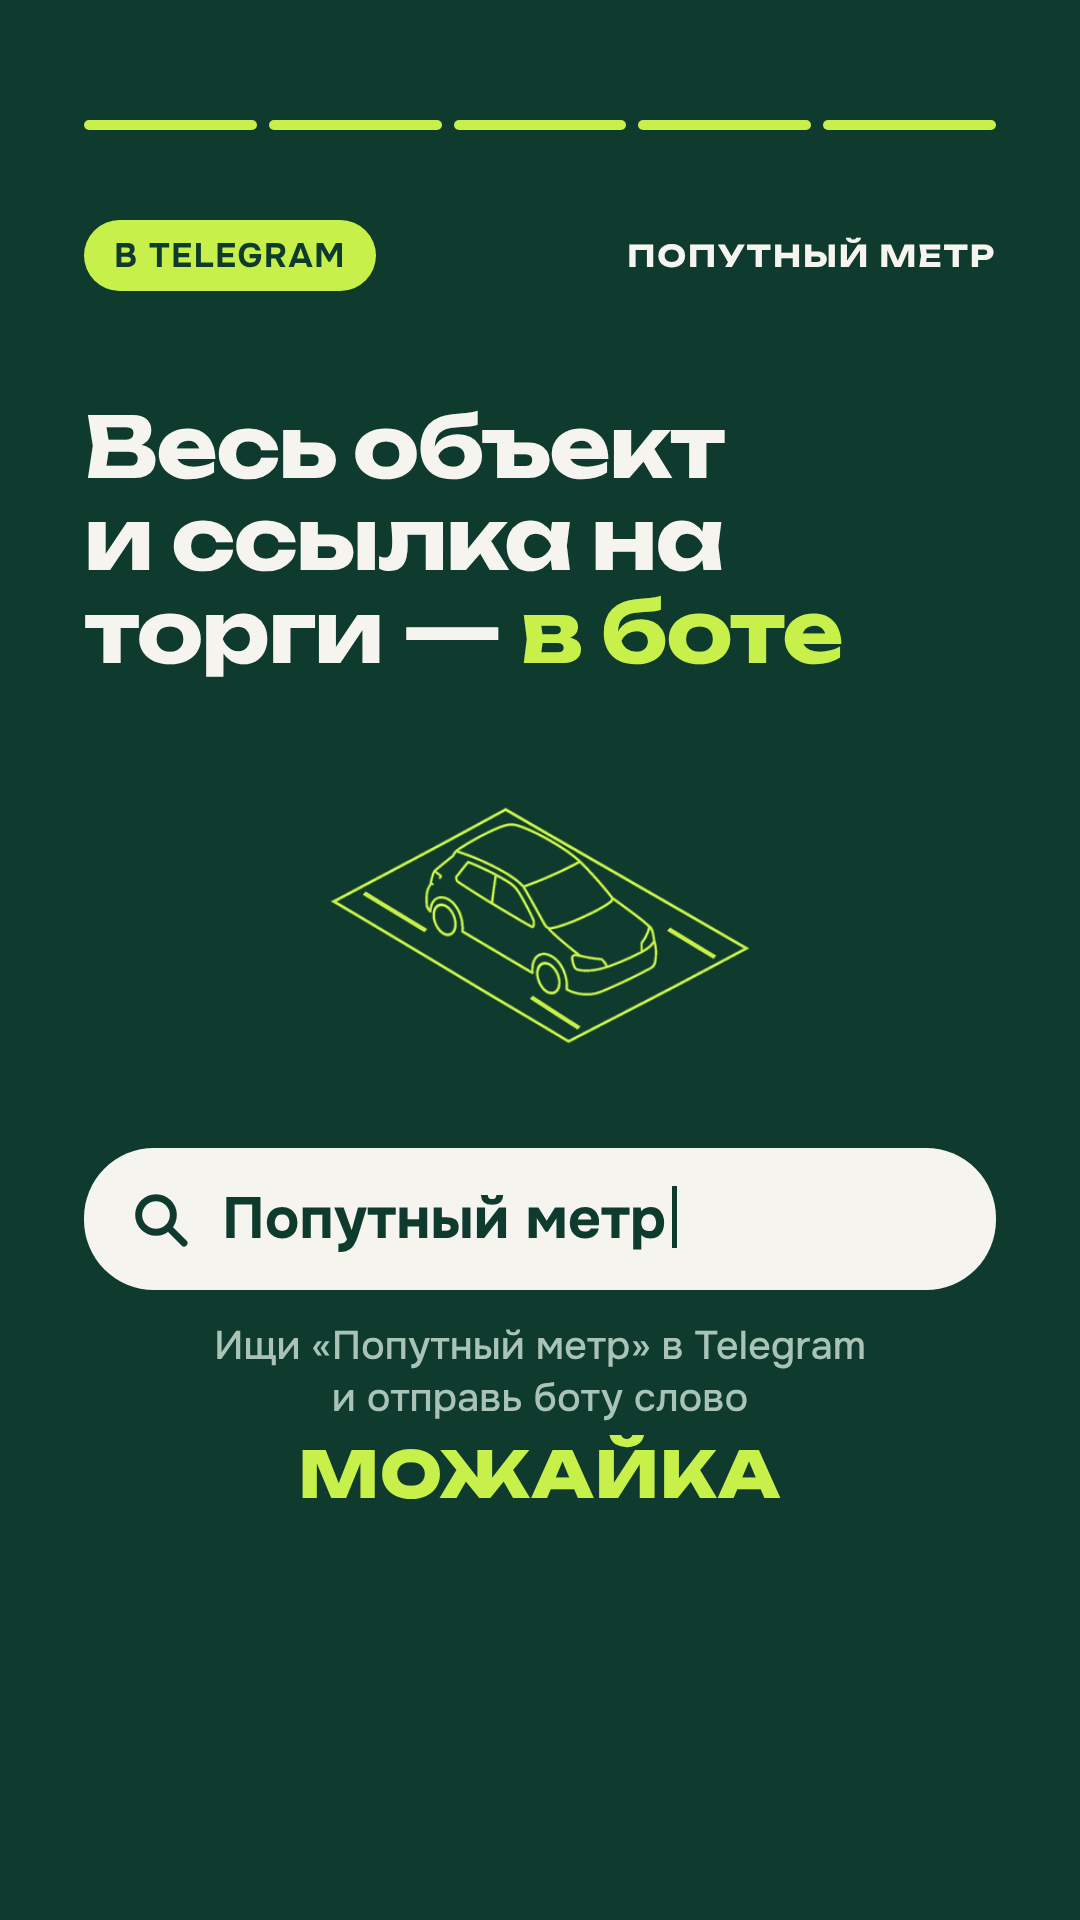
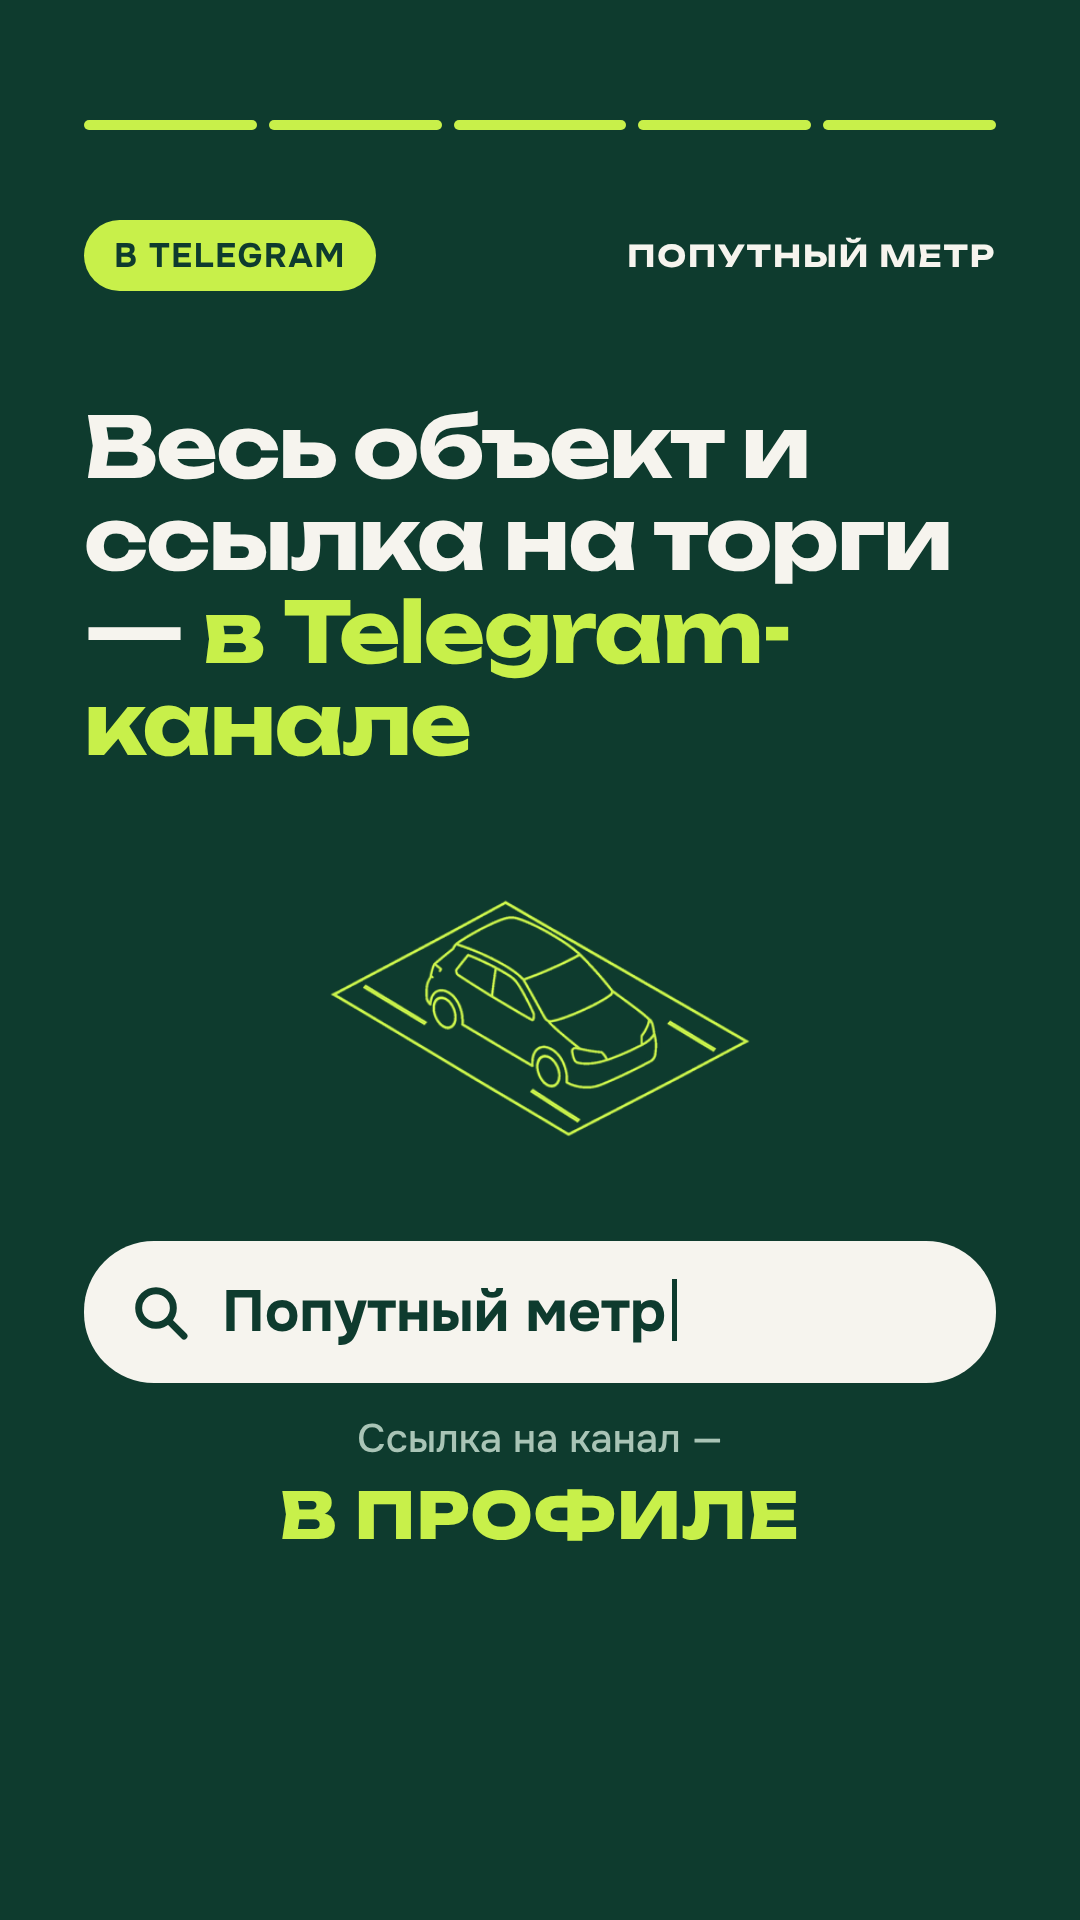
Ролик 01 ведёт в канал: последний кадр, описание без голоса, учёт ссылок
Пока бот нестабилен, ролики ведут в канал по пригласительным ссылкам Telegram.
Последний кадр — «в Telegram-канале, ссылка в профиле» (target: channel),
таблица ссылок — docs/design/reels/links.csv.

Claude-Session: https://claude.ai/code/session_015KqAT6bx4kPQjfPxZeJWFM

Changed region(s): [[0.0611, 0.4062, 0.9472, 0.8125], [0.0611, 0.2188, 0.8861, 0.4062]]

diff --git a/parkan/channel/reels.py b/parkan/channel/reels.py
@@ -18,6 +18,8 @@
   lot_id      id лота в снимке бота — его откроют метка и кодовое слово
   campaign    метка ролика для аналитики: ig01 → t.me/<бот>?start=ig01 (буквы, цифры, _ и -, до 64 знаков)
   word        кодовое слово для тех, кто найдёт бота поиском: печатается на последнем кадре
+  target      channel — последний кадр зовёт в канал по ссылке из профиля (без бота); по умолчанию — в бота
+  target      channel — последний кадр зовёт в канал по ссылке из профиля (без бота); по умолчанию — в бота
   bot         имя канала/бота для поиска в Telegram (по умолчанию «Попутный метр»)
 """
 
@@ -176,6 +178,18 @@ SEARCH_ICON = (f'<svg width="64" height="64" viewBox="0 0 24 24" fill="none" str
 def frame_cta(f: dict) -> str:
     bot = f.get("bot") or "Попутный метр"
     img, scale = ILLUSTRATIONS.get(f.get("type") or "parking", ILLUSTRATIONS["parking"])
+    if f.get("target") == "channel":   # бот не нужен: ведём в канал по ссылке из профиля
+        return _page(f"""{_top("В TELEGRAM")}
+  <div class="title">Весь объект и ссылка на торги — <em>в&nbsp;Telegram-канале</em></div>
+  <img class="cta-illus" src="{(ASSETS / img).as_uri()}" style="transform:scale({scale * 0.8})">
+  <div class="search">{SEARCH_ICON}<span>{escape(bot)}<i></i></span></div>
+  <div class="hint">Ссылка на канал —<b class="word">В ПРОФИЛЕ</b></div>""", 5)
+    if f.get("target") == "channel":   # без бота: ведём в канал по ссылке из профиля
+        return _page(f"""{_top("В TELEGRAM")}
+  <div class="title">Весь объект и ссылка на торги — <em>в&nbsp;Telegram-канале</em></div>
+  <img class="cta-illus" src="{(ASSETS / img).as_uri()}" style="transform:scale({scale * 0.8})">
+  <div class="search">{SEARCH_ICON}<span>{escape(bot)}<i></i></span></div>
+  <div class="hint">Ссылка на канал —<b class="word">В ПРОФИЛЕ</b></div>""", 5)
     word = (f'<br>и отправь боту слово<b class="word">{escape(f["word"].upper())}</b>') if f.get("word") else ""
     return _page(f"""{_top("В TELEGRAM")}
   <div class="title">Весь объект и ссылка на торги — <em>в боте</em></div>

diff --git a/tests/test_channel_reels.py b/tests/test_channel_reels.py
@@ -46,3 +46,13 @@ def test_campaign_word_and_register(tmp_path):
     with pytest.raises(ValueError, match="занято"):
         reels.register({**FACTS, "campaign": "igr02", "word": "Можайка"}, p)
     assert reels.bot_link("igr01").endswith("?start=igr01")
+
+
+def test_cta_to_channel():
+    html = reels.frames({**FACTS, "target": "channel", "word": "можайка"})[4]["html"]
+    assert "в Telegram-канале" in html and "В ПРОФИЛЕ" in html and "в боте" not in html
+
+
+def test_cta_to_channel():
+    html = reels.frames({**FACTS, "target": "channel", "word": "можайка"})[4]["html"]
+    assert "в Telegram-канале" in html and "В ПРОФИЛЕ" in html and "в боте" not in html

diff --git a/docs/design/reels/2026-10-15-mozhayskoe/text.md b/docs/design/reels/2026-10-15-mozhayskoe/text.md
@@ -1,31 +1,26 @@
-# Ролик: машино-место на Можайском шоссе, 45к1
+# Ролик 01: машино-место на Можайском шоссе, 45к1
 
 Источник — журнал Пульса (набор № 1461) на 15.10.2026, лот [20197917](https://torgi.mos.ru/tender/20197917).
 Старт 1 602 416 ₽, 16 м², заявки 14.09–03.11.2026, торги 12.11.2026.
 Медиана старта машино-мест в продаже в Можайском районе — 2 898 070 ₽ (32 лота), старт ниже на 44,7 % ≈ 45 %.
 
 Перед публикацией откройте лот по ссылке: цена и сроки не изменились, лот не снят.
+Лота ещё не было в канале — опубликуйте пост о нём в день выхода ролика и закрепите: по ссылке человек попадает в канал.
 
-## Закадровый голос / субтитры
+## Монтаж
 
-Читать спокойно, примерно 2,5 слова в секунду. Каждая строка — под свой кадр.
+Без голоса: 5 кадров под музыку, смена по таймингу (0–3, 3–7, 7–12, 12–17, 17–20 с).
 
-| Сек | Кадр | Текст |
+## Ссылки
+
+| Где | Название в Telegram | Ссылка |
 |---|---|---|
-| 0–3 | 01-price | В Москве на торгах появилось машино-место за 1,6 миллиона рублей. |
-| 3–7 | 02-place | Можайское шоссе, 45, корпус 1. Шестнадцать квадратных метров, заявки до 3 ноября. |
-| 7–12 | 03-compare | Медиана по району — 2,9 миллиона. Это место стартует на 45 процентов дешевле. |
-| 12–17 | 04-caveat | Но это стартовая цена, а не цена покупки: на аукционе она может вырасти. Условия лота нужно проверять. |
-| 17–20 | 05-cta | Весь лот и ссылка на торги — в боте. Найдите «Попутный метр» в Telegram и отправьте слово «Можайка». |
+| описание профиля (постоянная, все ролики) | Инстаграм профиль | https://t.me/+Fas8odPfDIw5ZTQy |
+| Stories к этому ролику | ig st 01 Можайское 45к1 16.10 | https://t.me/+AkobkxJTbvQ4YjNi |
 
-Короткий вариант голоса, если не укладывается в 20 секунд:
-1. Машино-место в Москве на торгах — 1,6 миллиона.
-2. Можайское шоссе, 45, 16 метров.
-3. По району медиана 2,9 миллиона. Минус 45 процентов.
-4. Но это старт, а не цена покупки. Условия проверяйте.
-5. Лот — в боте «Попутный метр». Кодовое слово — «Можайка».
+Учёт — `docs/design/reels/links.csv`.
 
-## Подпись к ролику в Instagram
+## Описание (если ролик выходит постом)
 
 Первая строка видна в ленте без «ещё» — в ней главное.
 
@@ -36,18 +31,11 @@
 
 Важно: это стартовая цена аукциона, итоговая может быть выше. Заявки принимают до 3 ноября, торги 12 ноября. Перед участием проверьте документацию лота: задаток, обременения, состояние.
 
-Ссылка на лот — в Telegram-боте «Попутный метр»: ссылка в профиле или найдите бота поиском и отправьте слово «можайка».
+Ссылка на лот и другие объекты с торгов Москвы — в Telegram-канале «Попутный метр», ссылка в профиле.
 
 #торгимосквы #машиноместо #недвижимостьмосква #аукцион #паркинг #москва
 ```
 
-## Метка для аналитики
-
-- Метка ролика: `igr01`, кодовое слово: «можайка» (оба открывают лот 20197917 в боте).
-- Ссылка с меткой: https://t.me/poputny_metr_bot?start=igr01 — в профиль (пока ролик свежий), в Stories со стикером «Ссылка»,
-  в автоответ в Direct на комментарий «можайка».
-- Результат — `/stats` в боте, раздел «Переходы по меткам», строка `igr01`.
-
-## Обложка ролика (текст на превью)
+## Обложка (текст на превью)
 
 «Машино-место за 1,6 млн — на 45% ниже района»

diff --git a/docs/channel.md b/docs/channel.md
@@ -323,7 +323,8 @@ metrics.parking_lots                        ─┘   cards.py     PNG-карто
 - [x] кадры роликов для Instagram Reels: `channel-reel`, первый ролик на реальном лоте (Можайское ш., 45к1) — `docs/design/reels/2026-10-15-mozhayskoe/`, кадры и тексты
 - [ ] брать факты ролика из `lots.best_deals` автоматически (сейчас `facts.json` собран вручную)
 - [x] метки роликов и кодовые слова в боте, журнал переходов `clicks`, раздел в `/stats`
-- [ ] `campaigns.json` с меткой `igr01` — в ветку `data`; бот на сервере обновить до этой ветки
+- [ ] `campaigns.json` с меткой `igr01` — в ветку `data`; бот на сервере обновить до этой ветки (отложено: бот нестабилен)
+- [x] ролики ведут в канал по пригласительным ссылкам Telegram (учёт — `docs/design/reels/links.csv`)
 
 Рынок (сравнение квартир с ценами вне торгов):
 - [x] журнал наблюдений `market/observations.csv`, `market-add`, `market-status`, поле `market` в фактах, правило в `channel-lint` и навыке
@@ -407,3 +408,4 @@ metrics.parking_lots                        ─┘   cards.py     PNG-карто
 | 2026-10-15 | Ролики для Instagram Reels приводят людей в бот и канал. Первый сценарий из 5 кадров (цена → адрес и карта → медиана района и разница → оговорка про стартовую цену → «ищи „Попутный метр“ в Telegram»). Кадры 1080×1920 в стиле карточек канала, команда `channel-reel`. Монтаж пока ручной. `html_cards.render_html` научился рисовать кадры любого размера. |
 | 2026-10-15 | Ролик — только на реальном лоте: выдуманный пример удалён. Первый лот — машино-место на Можайском ш., 45к1 (лучшее совпадение со сценарием: −45 % к медиане района по 32 лотам). Тексты к ролику — голос по кадрам, подпись в Instagram с хэштегами (в Instagram они нужны для поиска, в канале — нет), обложка — в `text.md` рядом с кадрами. |
 | 2026-10-15 | Аналитика роликов через бота. В Instagram ссылка в описании Reels не кликабельна, поэтому у каждого ролика есть метка (`igr01`: ссылка в профиле, Stories, Direct) и кодовое слово на последнем кадре (для тех, кто нашёл бота поиском). Бот пишет каждый переход в `clicks`, `/stats` показывает по меткам переходы, людей, новых и подписавшихся. Источник пользователя — по-прежнему первая метка. Новым считается и тот, кто запустил бота за час до кодового слова. |
+| 2026-10-16 | Пока бот нестабилен, ролики ведут прямо в канал по пригласительным ссылкам Telegram (`t.me/+…`), подписки по каждой ссылке считает Telegram. Ссылки автор создаёт вручную: «Инстаграм профиль» — постоянная, в описании профиля; на каждый ролик — своя ссылка для Stories («ig st NN объект дата»). Старые ссылки не удаляются. Учёт с замерами через 3 и 7 дней — `docs/design/reels/links.csv`. Последний кадр — «в Telegram-канале, ссылка в профиле» (`target: channel`). Ролики без голоса, под музыку. Описание нужно, только если ролик выходит постом. |
